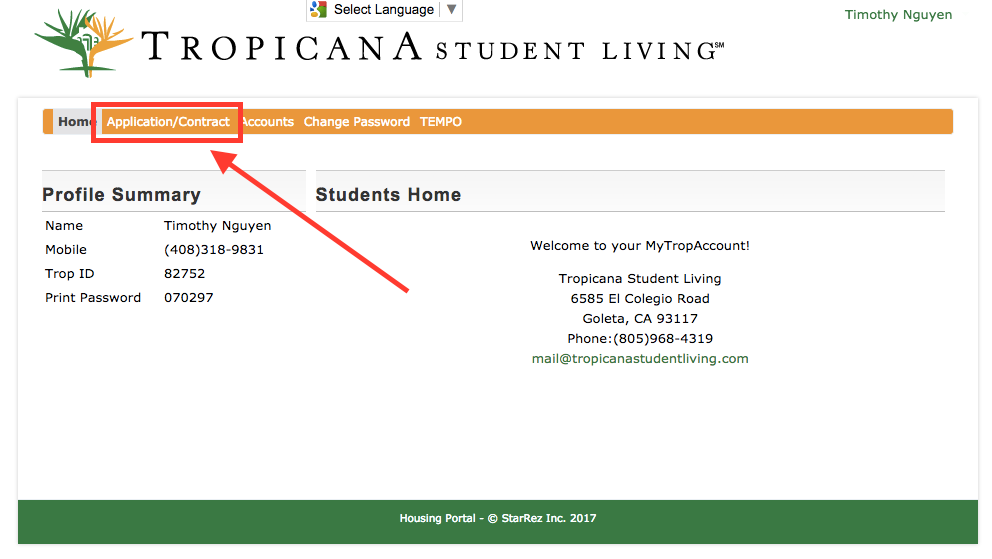
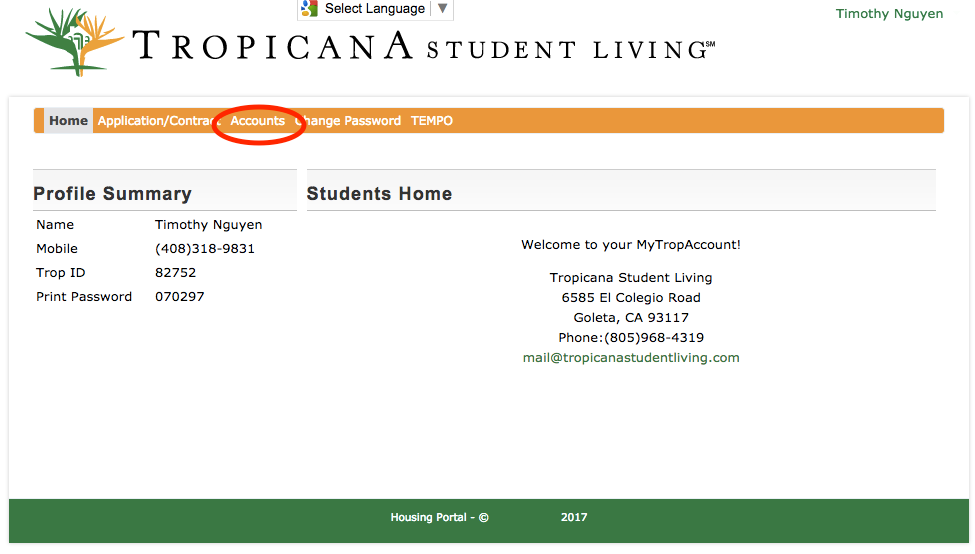
revised for payment

diff --git a/README.md b/README.md
@@ -6,16 +6,12 @@ Doing so will land you on this page:
 
 ![](./images/post-login.png)
 
-From here, click `Application/Contract` as indicated in the above image to arrive at this page:
+From here, clicking on `Accounts` as highlighted in the above page will land you here:
 
-![](./images/application-params.png)
+![](./images/accounts.png)
 
-After ensuring that the options are selected as shown in the above image, proceed by clicking `Save & Continue`. You should then see the following page:
+Finally, clicking on `Make a payment - Tropicana Villas` will take you to a page listing the various pyament method options.
 
-![](./images/initial-application.png) 
 
-After clicking through the contract agreement, click `Room Preferences - Villas` to proceed to a page depicting the payment schedule in case you want to see it:
 
-![](./images/payment-schedule.png)
 
-Once you've examined the payment schedule, click `Contract Agreement - Villas` to return to the contract. Alternatively, proceed through the continuation buttons at the bottom of the page and eventually return to the contract. Once you are satisfied with the contract, please electronically sign it and click `Save & Continue` then log out.
